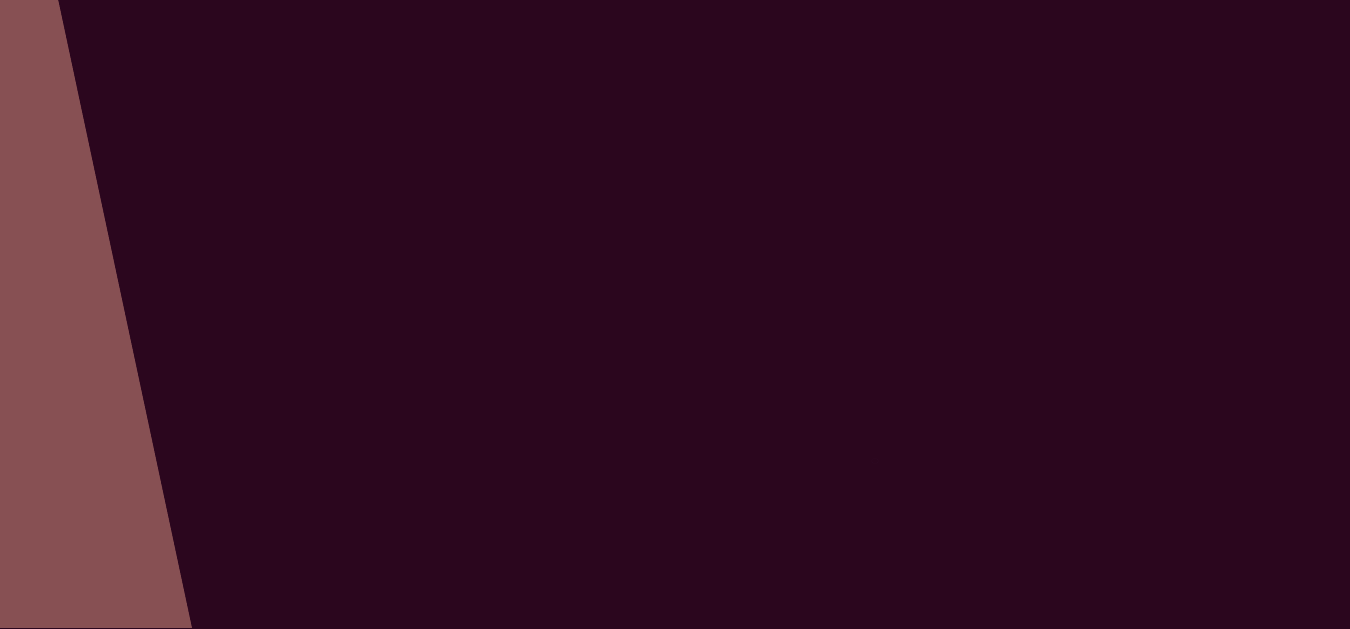
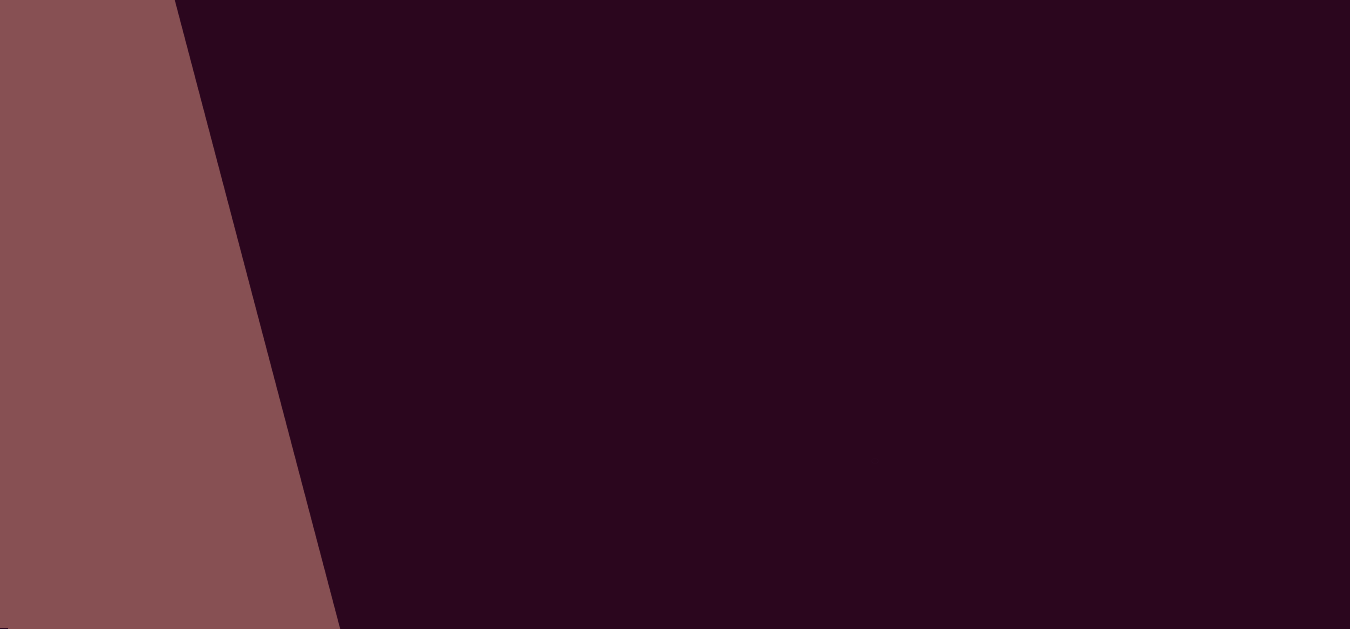
adicionado configurações de estilo, troca de background e configurações no html

Changed region(s): [[0.0, 0.0, 0.2489, 1.0]]

diff --git a/estilos/style.css b/estilos/style.css
@@ -1,11 +1,10 @@
 @charset "UTF-8";
 
 /* Paleta de Cores
-Cor 1: #6B2B3B (cor de fundo)
-Cor 2: #EEA7B8 (cor da fonte)
-Cor 3: #86A59C
-Cor 4: #354F52
-Cor 5: #B54864
+Cor 1: #2b061E
+Cor 2: #875053
+Cor 3: #EEA7B8
+
 
     Fonte
 Fonte 1: 'Lora', serif;
@@ -23,13 +22,15 @@ Fonte 1: 'Lora', serif;
 
 
 
-body,html {
+body,
+html {
     color: white;
     background-image: url(../imagens/background1.png);
     background-size: cover;
-    background-position: left top;
+    background-position: left center;
+    background-attachment: fixed;
     width: 100vw;
-  
+
 }
 
 main {
@@ -42,22 +43,22 @@ section {
     top: 50%;
     left: 50%;
 
-    width: 80vw;
+    width: 50vw;
     height: 50vh;
 
-    transform: translate(-50%, -50%);
+    transform: translate(-50%, -65%);
 }
 
 section>div#imagem {
     display: block;
-    
-    background: #2b061e url(../imagens/perfil.png);
+
+    background: url(../imagens/perfil.png);
     float: left;
     background-size: cover;
     background-position: center;
-    
-    height: 60vh;
-    width: 180px;
+
+    height: 67vh;
+    width: 300px;
     border-radius: 15px;
 
 }
@@ -65,10 +66,11 @@ section>div#imagem {
 section>div#conteudo {
     display: block;
     float: right;
+    margin-right: 40px;
+    width: 300px;
 
-    width: 160px;
+    transform: translate(10%, 12%);
 }
-
 
 #paragrafo-destaque {
     font-size: 25px;
@@ -80,33 +82,26 @@ strong {
 }
 
 p {
-    margin-bottom: 10px;
+    padding-bottom: 10px;
 }
 
-::-webkit-scrollbar {
-    width: 0;
-    height: 0;
+section#redes-sociais {
+    text-align: right;
 
-    /*Serve para esconder a barra de rolagem*/
+    transform: translate(-5%, -40%);
 }
 
-section#redes-sociais>a {
-    display: inline-block;
-}
-
-img {
-    width: 8vw;
+section#redes-sociais>a>img {
+    width: 50px;
+    margin: 10px;
     border-radius: 50%;
+    box-shadow: 2px 2px 5px #EEA7B8;
+    box-sizing: border-box;
 }
 
-a {
-    position: relative;
-    
-    text-align: center;
-    text-decoration: none;
-}
-
-a:hover {
-    border: 5px solid #FBBFCA;
-    border-radius: 50%;
+section#redes-sociais img:hover {
+    border: 2px solid rgba(255, 255, 255, 0.275);
+    transform: translate(-3px, -3px);
+    box-shadow: 2px 2px 10px #EEA7B8;
+    transition: transform 0.3s;
 }

diff --git a/index.html b/index.html
@@ -29,19 +29,27 @@
                     Atualmente curso Análise e
                     Desenvolvimento de Sistemas, e almejo a área de Desenvolvedora Frontend.
                 </p>
-                
+                <p>
+                    Lorem ipsum dolor, sit amet consectetur adipisicing elit. Accusantium, ad vitae voluptate tenetur
+                    dolores quam modi nisi nulla? Laboriosam debitis eius distinctio quo ullam mollitia sequi soluta
+                    aspernatur vel molestias.
+                </p>
+
             </div>
         </section>
 
         <section id="redes-sociais">
             <a href="home.html" target="tela"><img src="imagens/logo-home.jpg" alt="logo-home.jpg"></a> <br>
 
-            <a href="https://github.com/andressachris" target="_blank"><img src="imagens/logo-github.jpg" alt="logo-github.jpg"></a> <br>
+            <a href="https://github.com/andressachris" target="_blank"><img src="imagens/logo-github.jpg"
+                    alt="logo-github.jpg"></a> <br>
 
-            <a href="https://www.instagram.com/dessachriss/" target="_blank"><img src="imagens/logo-instagram.jpg" alt="logo-instagram.jpg"></a>
+            <a href="https://www.instagram.com/dessachriss/" target="_blank"><img src="imagens/logo-instagram.jpg"
+                    alt="logo-instagram.jpg"></a>
             <br>
 
-            <a href="https://www.facebook.com/DeSSa131" target="_blank"><img src="imagens/logo-facebook.jpg" alt="logo-facebook.jpg"></a> <br>
+            <a href="https://www.facebook.com/DeSSa131" target="_blank"><img src="imagens/logo-facebook.jpg"
+                    alt="logo-facebook.jpg"></a> <br>
 
         </section>
     </main>
